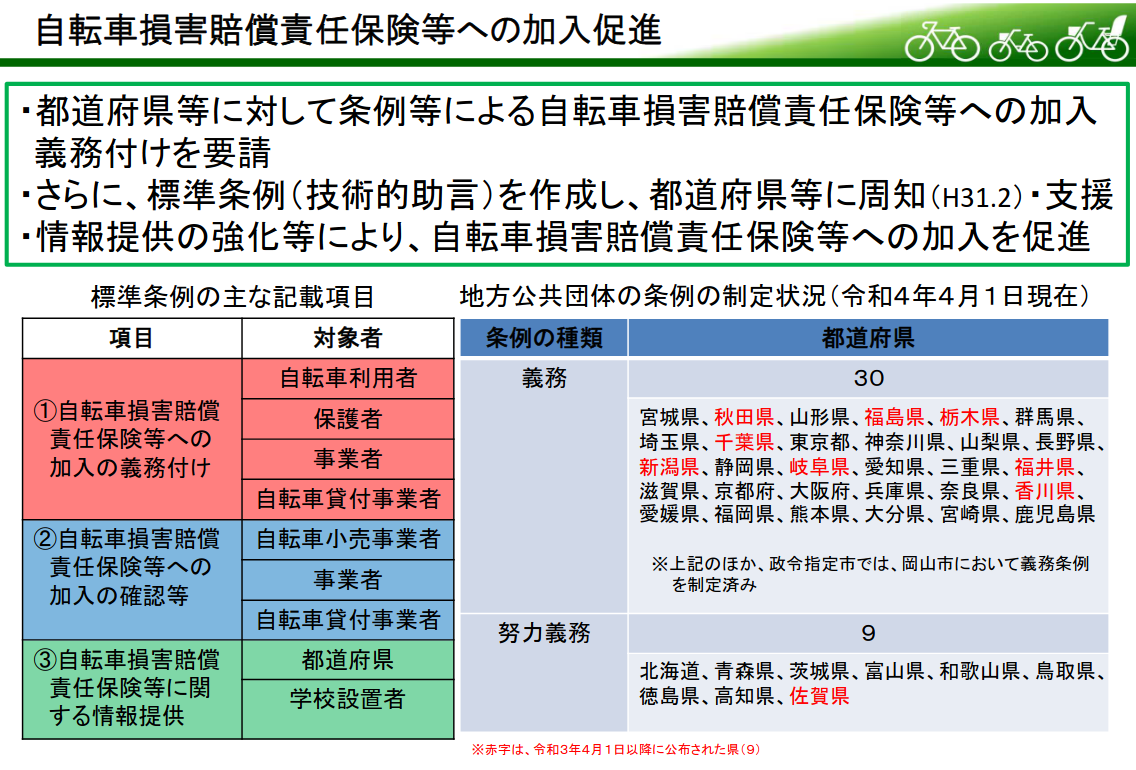
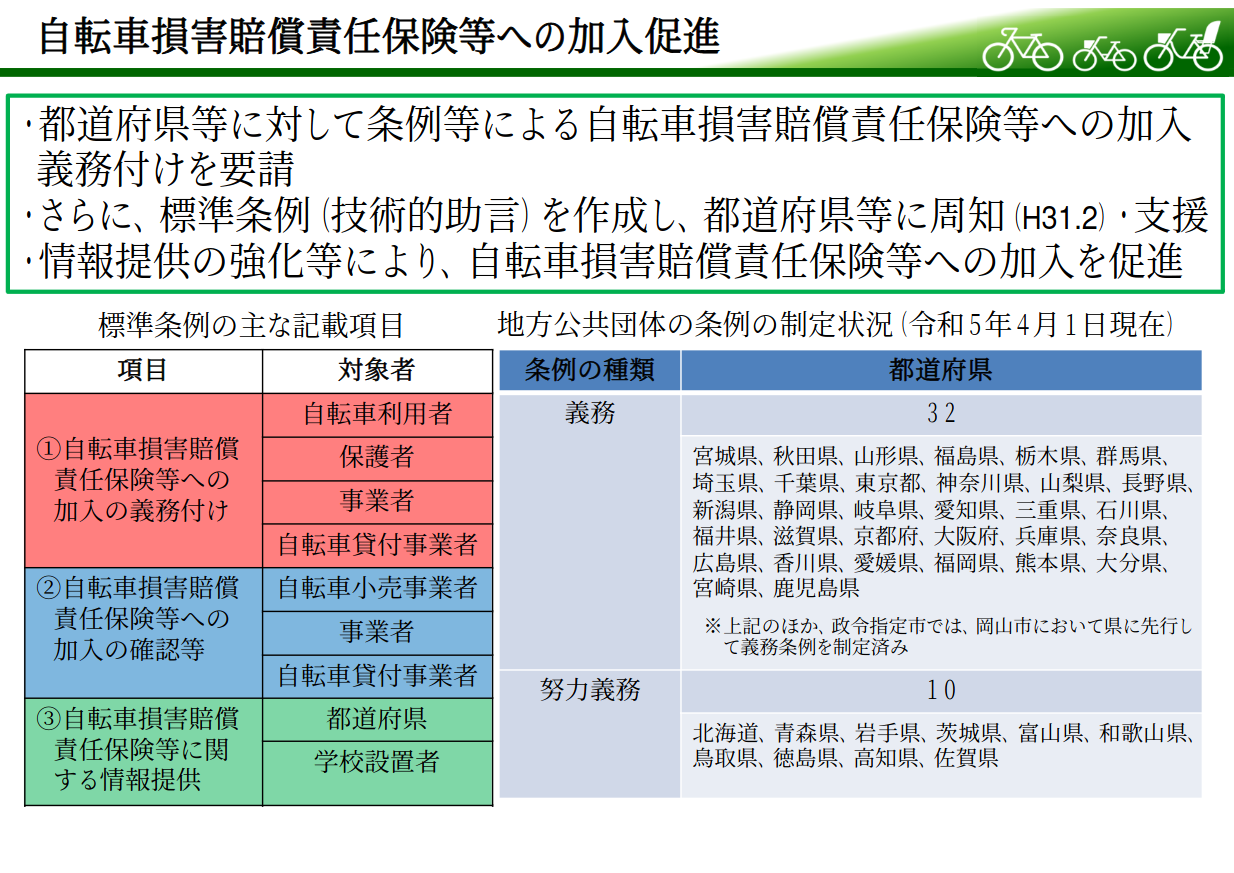
New post (bike)

diff --git a/reviews/B082FDBWDH.html b/reviews/B082FDBWDH.html
@@ -1,0 +1,1 @@
+ランニングポーチだが自転車に乗る際のウェストポーチとして使っている。ベルトがゴムなので揺れない。大きいポケットにはスマホとモバイルバッテリ（小）を重ねて入れられる。小銭や鍵は小さい方のポケットに。

diff --git a/reviews/B07MZ8459H.html b/reviews/B07MZ8459H.html
@@ -1,0 +1,1 @@
+ヘルメット着用努力義務化に合わせて買った。簡易ロックだが，カジュアル窃盗避けということで（笑）

diff --git a/reviews/B092CX9HBY.html b/reviews/B092CX9HBY.html
@@ -1,0 +1,1 @@
+コンパクトでランニングポーチに楽々入る。【追記】2023年時点ではもう売ってないらしい。残念。

diff --git a/content/remark/2023/04/risk-management-for-bike.md b/content/remark/2023/04/risk-management-for-bike.md
@@ -1,0 +1,121 @@
++++
+title = "自転車のリスク・マネジメント 2023"
+date =  "2023-04-16T13:33:36+09:00"
+description = "自転車安全利用五則 / メットは被っとけ / 保険は入っとけ"
+image = "/remark/2022/10/suitouro/52396396454_bba3f93891_e.jpg"
+tags = [ "bike", "risk", "management" ]
+pageType = "text"
+
+[scripts]
+  mathjax = false
+  mermaidjs = false
++++
+
+最近見かけた記事。
+
+- [なぜ自転車のヘルメットは努力義務になったのか｜T.Goto｜note](https://note.com/myuchef/n/nb4711c64e29b)
+
+いや，うーん。
+分からなくもないけど，この記事自体が政治宣伝ぽくて鼻をつまんでしまうんだよなぁ。
+電動けりんちょ，おっとキックボード等との抱き合わせの話はみんな思ってることで，たとえば
+
+- [小型電動モビリティのヘルメット着用努力義務と、自転車のそれはリンクしている – CyclingEX CLASSIC](https://www.cycling-ex.com/2023/04/bicycle_escooter_helmet.html)
+
+程度の認識でいいんじゃないの？ と思う。
+抱き合わせで何が悪い。
+
+というわけで，今までも散発的に書いてたけど，自転車のリスク・マネジメントについてつらつらと書いてみる。
+
+## 自転車安全利用五則
+
+「自転車安全利用五則」と呼ばれるものがある。
+曰く
+
+{{< fig-quote type="markdown" title="自転車の安全利用の促進について - 内閣府" link="https://www8.cao.go.jp/koutu/taisaku/bicycle/bicycle_r04.html" >}}
+1. 車道が原則、左側を通行<br>歩道は例外、歩行者を優先
+2. 交差点では信号と一時停止を守って、安全確認
+3. 夜間はライトを点灯
+4. 飲酒運転は禁止
+5. ヘルメットを着用
+{{< /fig-quote >}}
+
+ってことらしい。
+また2022年11月から自転車による交通違反の罰則が厳しくなった。
+
+{{< fig-youtube id="JzgtrCMuPyE" title="知っておきたいロードバイクの法改正 - YouTube" >}}
+
+この辺は致し方ないところであろう。
+私が子どもの頃のような長閑な時代ではないのだ。
+自転車は歩行者の延長ではなく車の一種である，という点は頭に入れておくべきだろう。
+
+そういえば，スクランブル交差点で歩行者信号が青になったので自転車に乗って渡ろうとしたら，おまわりさんにとっ捕まったって話があったよね。
+でも，スクランブル交差点で自動車信号に合わせて自転車に乗って渡ったらソッコー轢かれるぢゃん。どんな罠だよ（笑）
+
+公道における自転車の立ち位置は微妙で，それ故に事故リスクが高いルートは避けるなどの自衛も必要になる。
+
+{{< fig-youtube id="Hd914N6KOCs" title="自転車を安全に乗ろう！街中に潜む危険箇所をご紹介！ - YouTube" >}}
+
+## メットは被っとけ
+
+2022年5月に決議された改正道交法で，自転車に乗る際は年齢を問わずヘルメットを着用することが「努力義務」となった。
+そしてこの改正道交法は2023年4月から施行されている。
+つまり，いきなり始まったわけじゃなくて，一応11ヶ月の猶予期間はあったんだよ（事前の周知はされてたか怪しいけど）。
+
+私は2022年9月に[クロスバイクを購入]({{< ref "/remark/2022/09/x-road-bike.md" >}} "チャリンコ買うた")したが，その後の2ヶ月後点検の際に遅まきながら[ヘルメットとグローブを購入]({{< ref "/remark/2022/11/initial-maintenance-of-my-bike.md" >}} "自転車の初期点検とお買い物")している。
+
+[当時の記事]({{< ref "/remark/2022/11/accident-insurance-for-bike.md" >}} "自転車のリスク・マネジメント（損害保険，他）")でも書いたが，私は若い頃は割と自転車事故に遭っていて，自動車と衝突してふっ飛ばされたこともあるし（自転車は大破したが奇跡的に捻挫のみで済んだ），出会い頭に歩行者を轢きそうになったこともある（急ブレーキに失敗して自転車ごと前転した。歩行者に当たらなくてよかった）。
+スポーツサイクルに乗る際にヘルメットやグローブを着用することの重要性は分かっているつもりだ。
+
+お買い物用のママチャリや子どもの通学用シティサイクルと，今や嗜好品になりつつあるスポーツサイクルをひと絡げに「自転車」として扱うのはどうかとも思うのだが，私の若い頃を思い返してみれば，原チャリでもノーヘル当たり前だった時代もあるし，車のシートベルトやチャイルドシートも定着するまで随分かかった。
+自転車のヘルメットも「当たり前」になるまでしばらくかかるのだろう。
+
+で，問題はヘルメットって乗車時以外は邪魔物なんだよね。
+今までは，あご紐でフレームに引っ掛けるだけだったんだが
+
+{{< fig-img src="/remark/2022/11/challenge-for-the-yaegaki-shrine/52509312976_0a7e78d1f7_e.jpg" title="八重垣神社の駐輪場 | Flickr" link="https://www.flickr.com/photos/spiegel/52509312976/">}}
+
+これからは安物ヘルメットでもカジュアルに盗むバカとか出そうなので，ヘルメットロックを買うことにした。
+ヘルメットロックについては以下の記事が参考になる。
+
+- [【ヘルメット】自転車のヘルメットホルダーとして使えそうなアイテム【盗難防止】 – CyclingEX CLASSIC](https://www.cycling-ex.com/2022/12/helmet-holder-2023.html)
+
+私が買ったのはこれ。
+
+{{% review-paapi "B07MZ8459H" %}} <!-- ヘルメットロック -->
+
+自転車のロックを兼ねるならもっとワイヤーが長いほうがいいかも知れないが，私は自転車用のロックは別に持ってるので。
+
+## 保険は入っとけ
+
+ヘルメットより重要なのが保険。
+保険加入の（努力）義務は自治体によって異なる。
+
+{{< fig-img-quote src="/remark/2022/11/accident-insurance-for-bike/situation_pdf.png" title="自転車損害賠償責任保険等への加入促進（2023-04-01 時点）" link="https://www.mlit.go.jp/road/bicycleuse/promotion/pdf/situation.pdf" width="1234">}}
+
+この表には載ってないが，私が住んでいる島根県松江市は個別の[条例](https://www.city.matsue.lg.jp/soshikikarasagasu/gikaijimukyoku_gijichosaka/matsueshigikai/3/1380.html "議会政策条例(自転車安全利用条例)／松江市ホームページ")で努力義務が課せられている。
+
+{{< fig-quote type="markdown" title="松江市自転車安全利用条例 第5条 3" link="https://www.city.matsue.lg.jp/material/files/group/108/jyoureizenbun.pdf" >}}
+自転車利用者は、定期的な点検整備及び事故に備えた損害保険への加入に努めなければならない。
+{{< /fig-quote  >}}
+
+私はヘルメットとかを購入したのと同時期に [au の保険にも入っている]({{< ref "/remark/2022/11/accident-insurance-for-bike.md" >}} "自転車のリスク・マネジメント（損害保険，他）")。
+年間6K円ほどだが，私が利用しているキャリアが au なので支払いが楽だし，同居家族も対象に含まれるので，これにした。
+この辺は人によって違うだろう。
+
+自転車の性能が上がるほど加害者側になるリスク（＝生起確率×影響度）は馬鹿にできない。
+また，東京都とか保険加入が義務になっているところは，勤務先によっては自転車通勤を希望する際に保険の入会証明書を提出しないといけなかったりするらしい。
+
+まぁ，保険は入っとけってことだよね。
+
+## ブックマーク
+
+- [自転車の灯火についての決まりを全都道府県調べてみた – CyclingEX CLASSIC](https://www.cycling-ex.com/2015/12/jitensha_light_kimari_47.html)
+- [【パーツ】あなたのライトは、明るさ基準値クリアしていますか？！](https://giant-store.jp/matsue/parts/13174/) : この記事の800ルーメンの前照灯を購入した。スマートモードが便利
+
+- [はじめての空気圧チェック]({{< ref "/remark/2022/09/pound-force-per-square-inch.md" >}})
+- [チェーンお掃除を試してみる]({{< ref "/remark/2022/09/cleaning-the-chain.md" >}})
+
+## 参考
+
+{{% review-paapi "B082FDBWDH" %}} <!-- ランニングポーチ -->
+{{% review-paapi "B092CX9HBY" %}} <!-- モバイルバッテリ（小） -->

diff --git a/content/remark/2022/11/accident-insurance-for-bike.md b/content/remark/2022/11/accident-insurance-for-bike.md
@@ -30,12 +30,13 @@ pageType = "text"
 
 自転車損害保険への加入義務は自治体によって[対応が異なる](https://www.mlit.go.jp/road/bicycleuse/promotion/ "道路：自転車損害賠償責任保険等への加入促進について - 国土交通省")ようだ。
 
-{{< fig-img-quote src="./situation_pdf.png" title="自転車損害賠償責任保険等への加入促進（2022-04-01 時点）" link="https://www.mlit.go.jp/road/bicycleuse/promotion/pdf/situation.pdf" width="1136">}}
+{{< fig-img-quote src="./situation_pdf.png" title="自転車損害賠償責任保険等への加入促進（2023-04-01 時点）" link="https://www.mlit.go.jp/road/bicycleuse/promotion/pdf/situation.pdf" width="1234">}}
 
-中国5県では，鳥取県は努力義務が課せられているが島根県を含む他の4県は努力義務もないらしい。
-ただし，私が住んでいる松江市は[条例](https://www1.city.matsue.shimane.jp/gikai/torikumi/jyourei.html "松江市:暮らしのガイド:議会政策条例（自転車安全利用条例）")で努力義務が課せられている。
+中国5県では，広島県では義務，鳥取県では努力義務が課せられている
+。
+ちなみに私が住んでいる松江市は個別の[条例](https://www.city.matsue.lg.jp/soshikikarasagasu/gikaijimukyoku_gijichosaka/matsueshigikai/3/1380.html "議会政策条例(自転車安全利用条例)／松江市ホームページ")で努力義務が課せられている。
 
-{{< fig-quote type="markdown" title="松江市自転車安全利用条例 第5条 3" link="https://www1.city.matsue.shimane.jp/gikai/torikumi/jyourei.data/jyoureizenbun.pdf" >}}
+{{< fig-quote type="markdown" title="松江市自転車安全利用条例 第5条 3" link="https://www.city.matsue.lg.jp/material/files/group/108/jyoureizenbun.pdf" >}}
 自転車利用者は、定期的な点検整備及び事故に備えた損害保険への加入に努めなければならない。
 {{< /fig-quote  >}}
 
